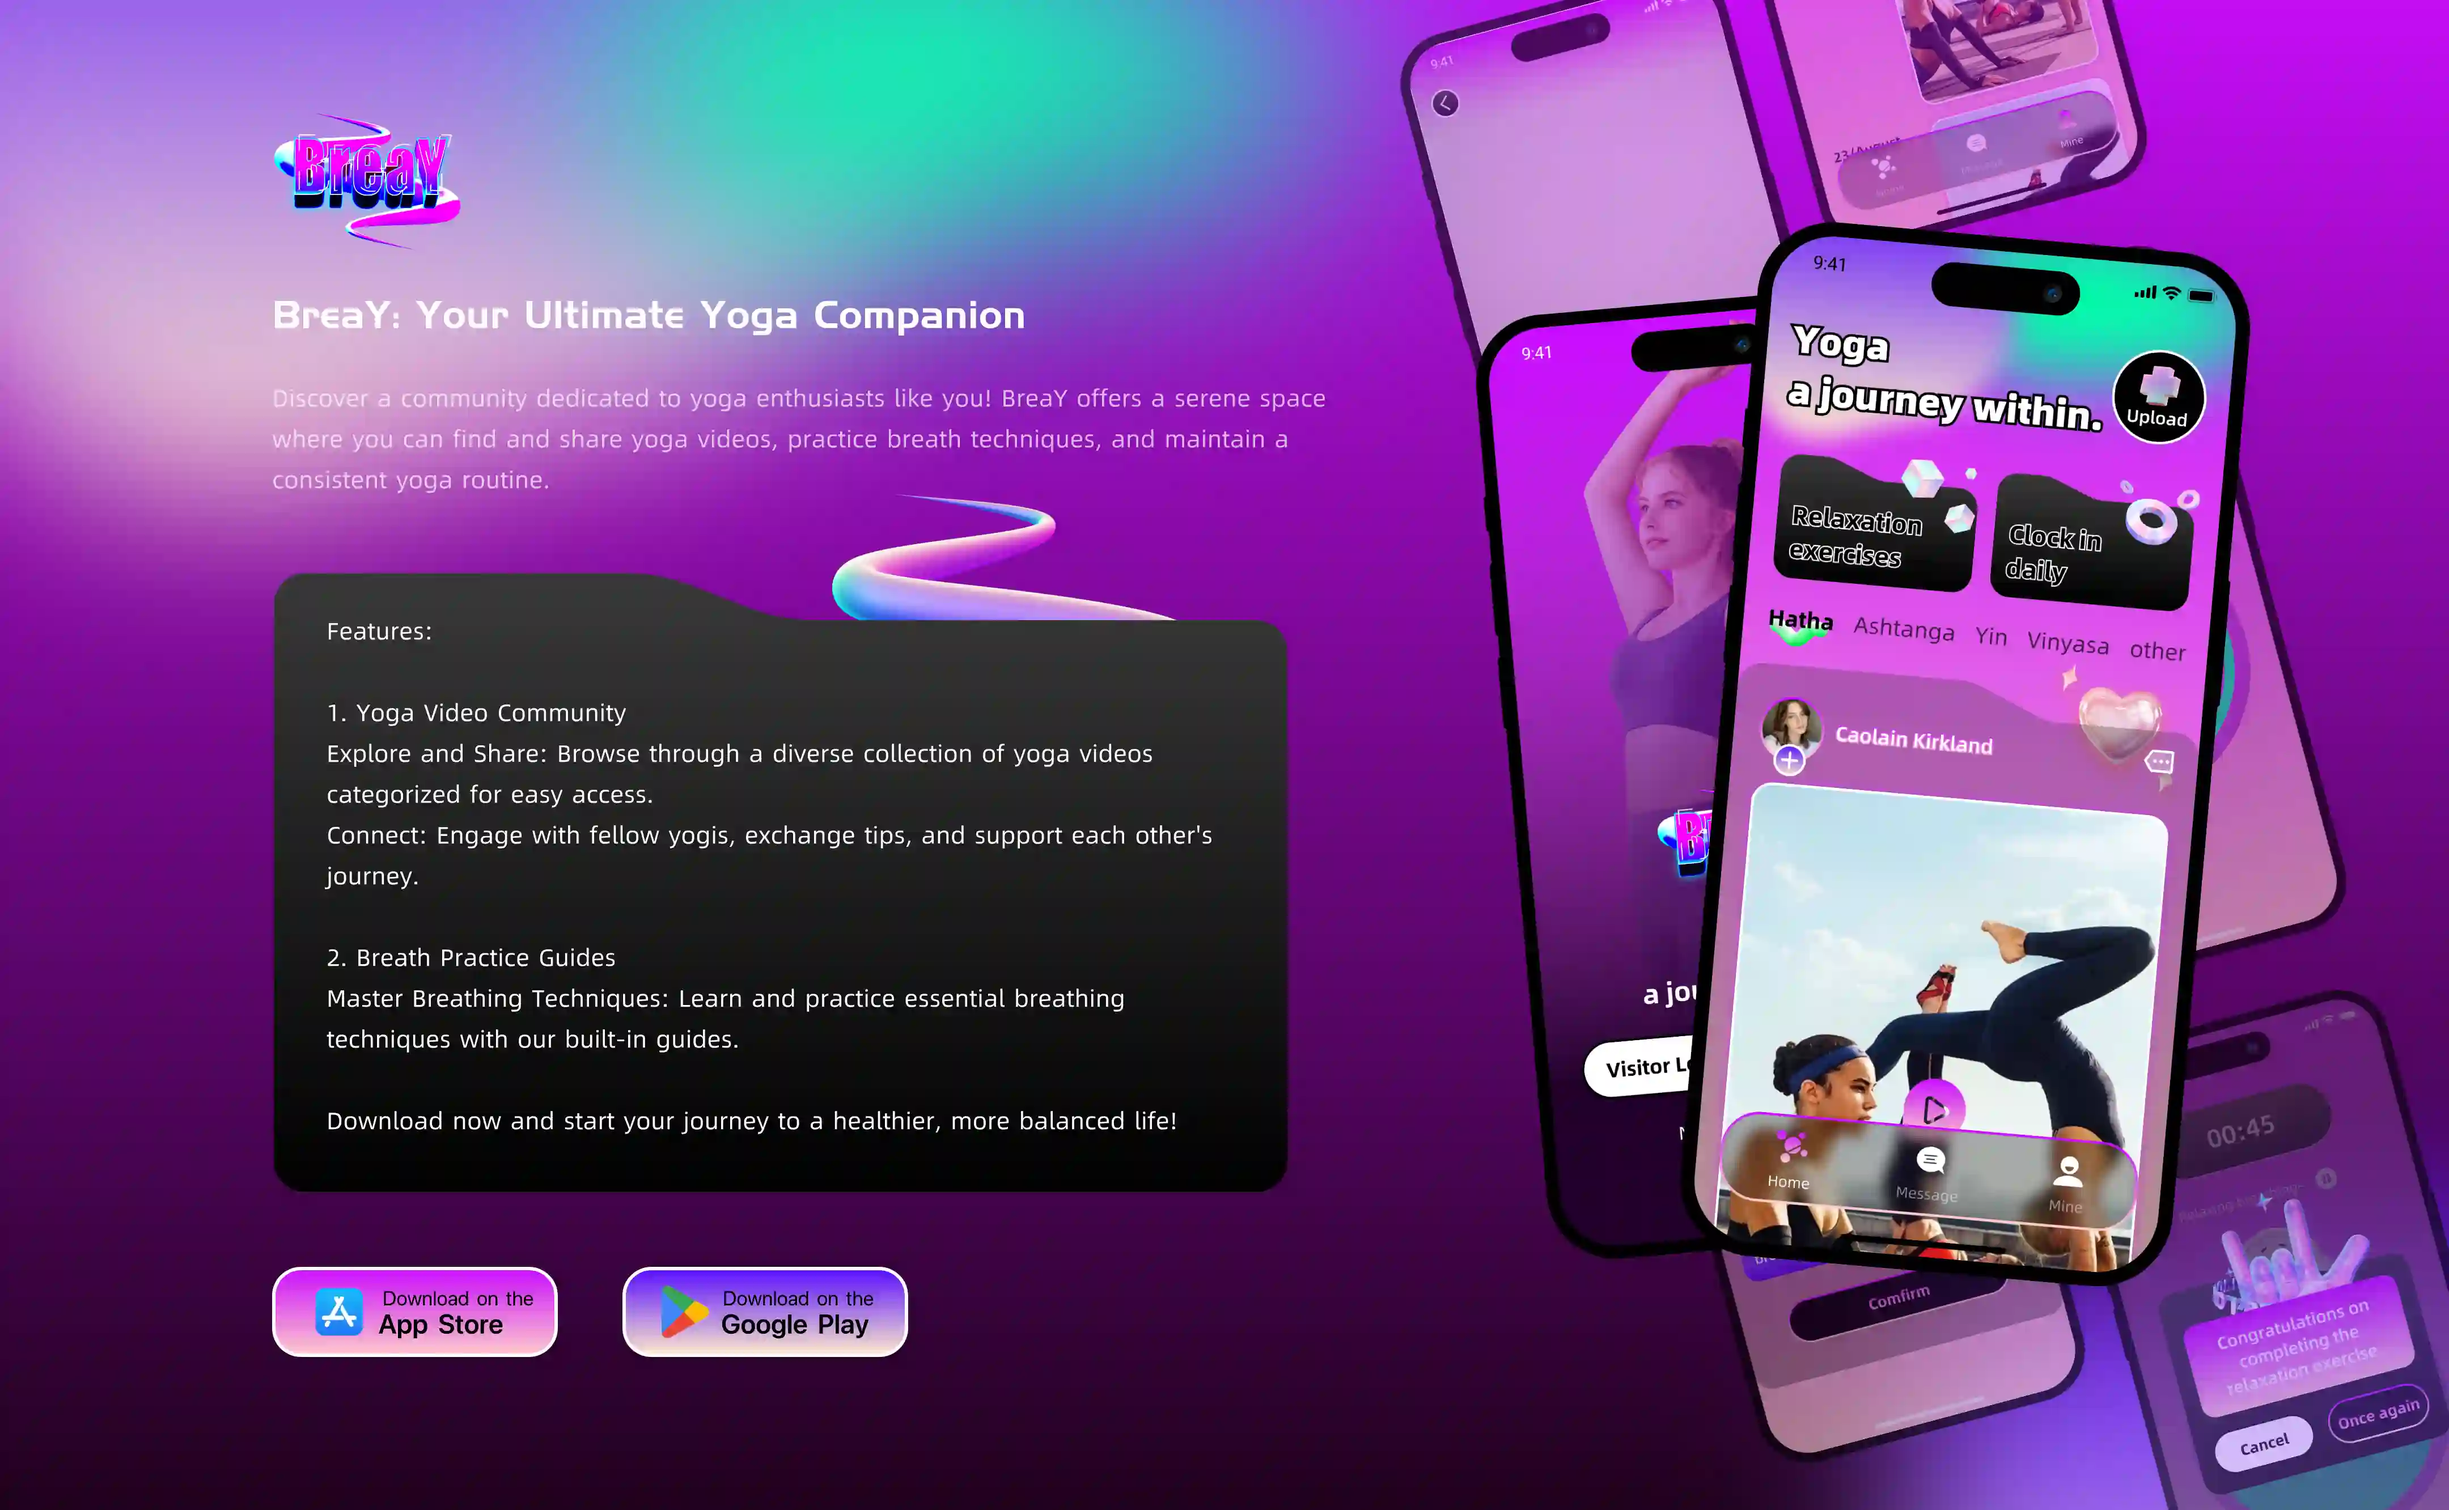
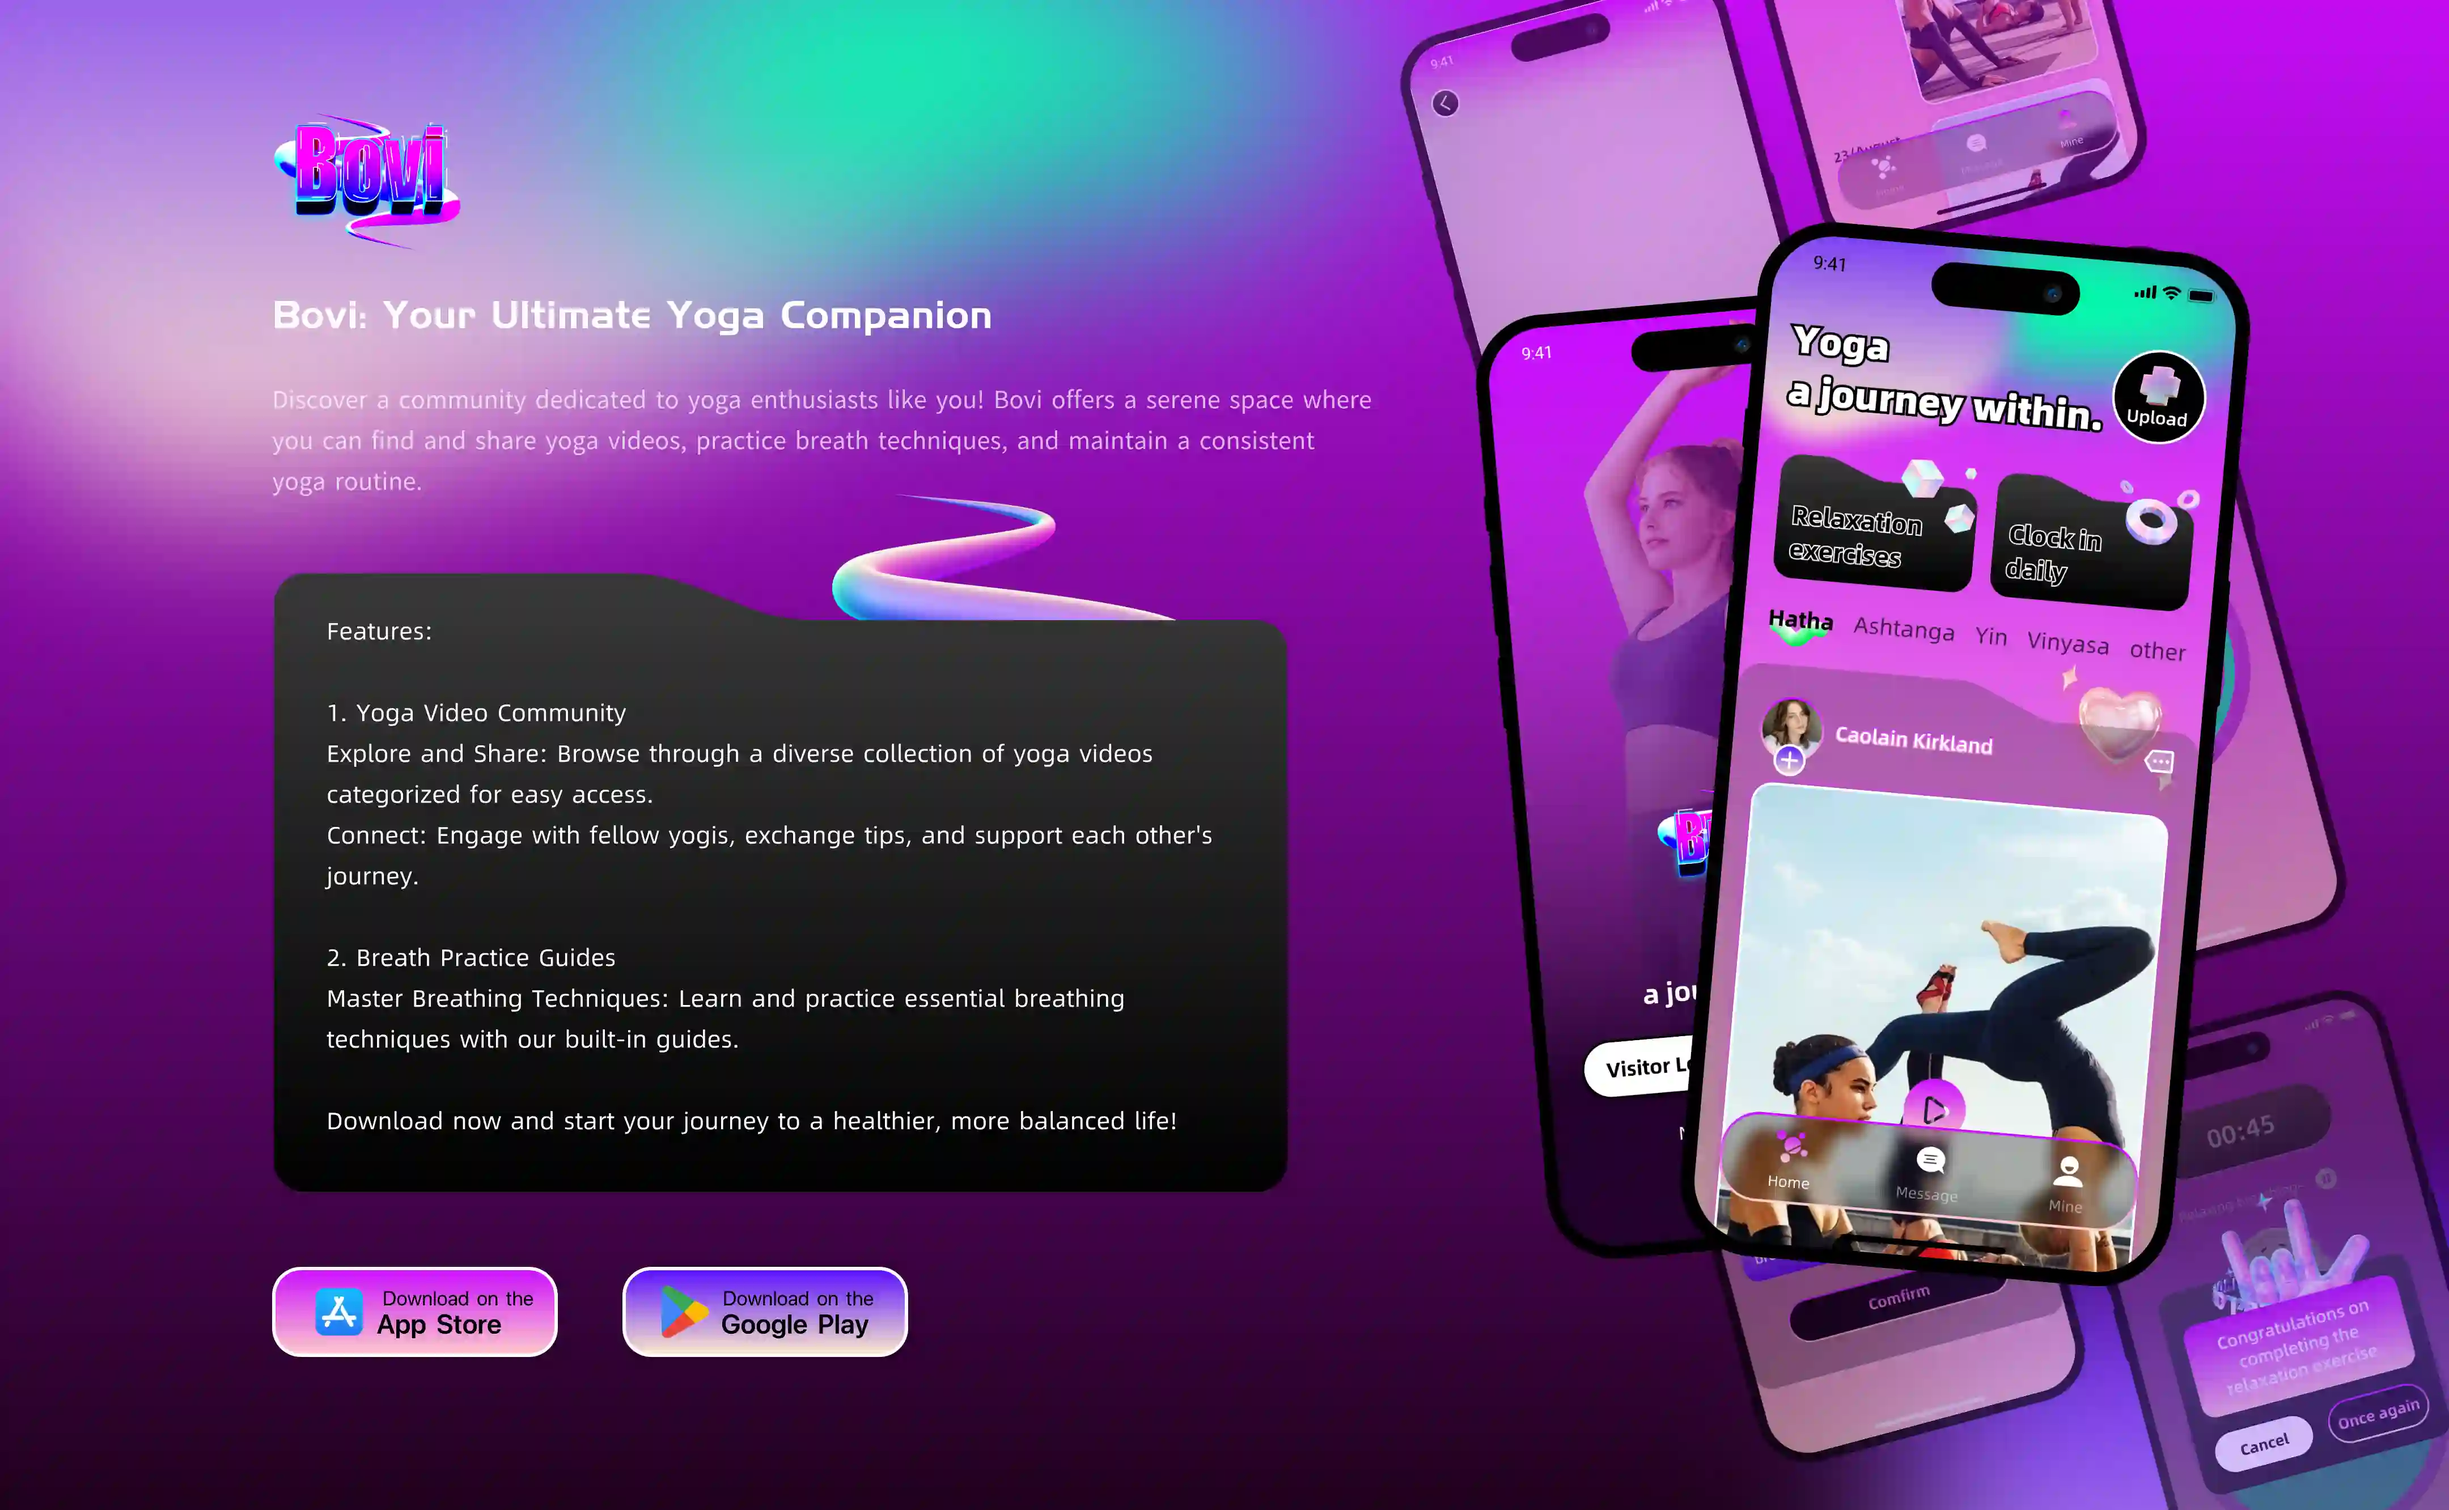
1

diff --git a/index.html b/index.html
@@ -4,7 +4,7 @@
   <meta charset="UTF-8">
   <meta name="viewport" content="width=device-width, initial-scale=1.0">
   <link rel="icon" href="/favicon.svg" type="image/svg+xml">
-  <title>BreaY</title>
+  <title>Bovi</title>
   <meta name="description" content="Opinionated Vite Starter Template">
 </head>
 <body class="font-sans">

diff --git a/src/pages/privacy.vue b/src/pages/privacy.vue
@@ -2,7 +2,7 @@
 defineOptions({
   name: 'IndexPage',
 })
-const appName = 'BreaY'
+const appName = 'Bovi'
 </script>
 
 <template>

diff --git a/src/pages/users.vue b/src/pages/users.vue
@@ -2,7 +2,7 @@
 defineOptions({
   name: 'IndexPage',
 })
-const appName = 'BreaY'
+const appName = 'Bovi'
 </script>
 
 <template>
